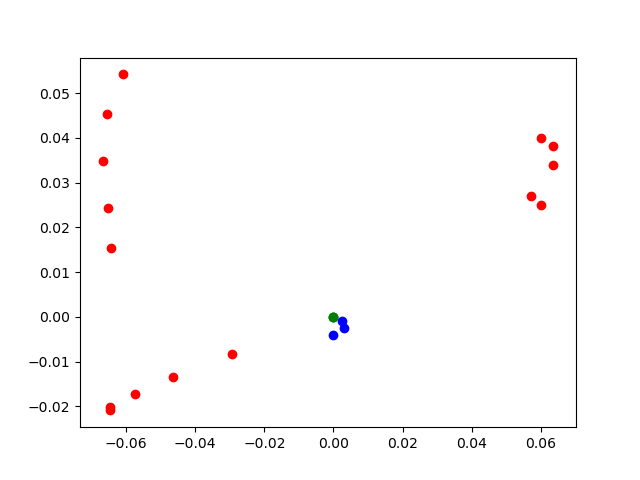
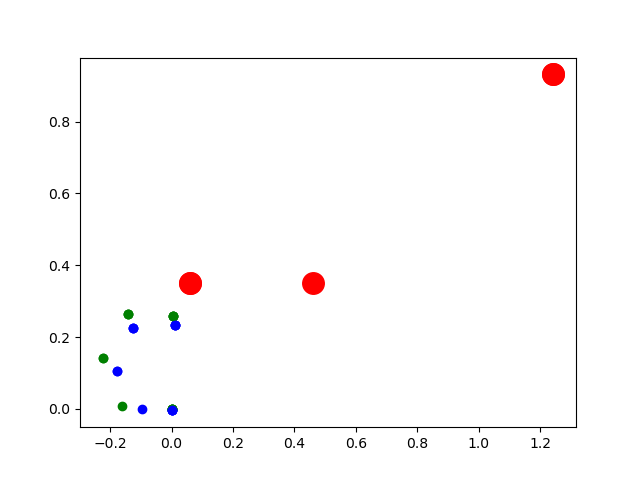
small fixes

diff --git a/extended_kalman_filter.py b/extended_kalman_filter.py
@@ -121,7 +121,7 @@ class ExtendedKalmanFilter:
             dots = []
 
             while i < 5:
-                dots.append([depths[int(i * len(depths) / 5)] / 10, start_angle + delta_angle * (i + 1)])    
+                dots.append([depths[int(i * len(depths) / 5)] * 5, start_angle + delta_angle * (i + 1)])    
                 i += 1
 
             return dots
@@ -135,27 +135,28 @@ class ExtendedKalmanFilter:
 
 
     def ekf_update(self, z):
-        for iz in range(len(z[:, 0])): 
-            minid = self.search_correspond_LM_ID(z[iz, 0:2]) 
+        if len(z) > 0:
+            for iz in range(len(z[:, 0])): 
+                minid = self.search_correspond_LM_ID(z[iz, 0:2]) 
 
-            nLM = int((len(self.xEst) - STATE_SIZE) / 2)
-            
-            if minid == nLM: 
-                xAug = np.vstack((self.xEst, self.calc_LM_Pos(z[iz, :])))
+                nLM = int((len(self.xEst) - STATE_SIZE) / 2)
+                
+                if minid == nLM: 
+                    xAug = np.vstack((self.xEst, self.calc_LM_Pos(z[iz, :])))
 
-                PAug = np.vstack((np.hstack((self.PEst, np.zeros((len(self.xEst), LM_SIZE)))),
-                                np.hstack((np.zeros((LM_SIZE, len(self.xEst))), self.initP))))
-                self.xEst = xAug
-                self.PEst = PAug
- 
-      
-            lm = self.get_LM_Pos_from_state(minid)
+                    PAug = np.vstack((np.hstack((self.PEst, np.zeros((len(self.xEst), LM_SIZE)))),
+                                    np.hstack((np.zeros((LM_SIZE, len(self.xEst))), self.initP))))
+                    self.xEst = xAug
+                    self.PEst = PAug
     
-            y, S, H = self.calc_innovation(lm, self.xEst, self.PEst, z[iz, 0:2], minid)
+        
+                lm = self.get_LM_Pos_from_state(minid)
+        
+                y, S, H = self.calc_innovation(lm, self.xEst, self.PEst, z[iz, 0:2], minid)
 
-            K = (self.PEst @ H.T) @ np.linalg.inv(S) # Calculate Kalman Gain
-            self.xEst = self.xEst + (K @ y)
-            self.PEst = (np.eye(len(self.xEst)) - (K @ H)) @ self.PEst
+                K = (self.PEst @ H.T) @ np.linalg.inv(S) # Calculate Kalman Gain
+                self.xEst = self.xEst + (K @ y)
+                self.PEst = (np.eye(len(self.xEst)) - (K @ H)) @ self.PEst
         
         self.xEst[2] = pi_2_pi(self.xEst[2])
     
@@ -176,14 +177,13 @@ class ExtendedKalmanFilter:
     
     def perform_filter_step(self, landmarks):
         processed_landmarks = self._get_landmarks(landmarks)
-        if len(processed_landmarks) > 0:
-            self.ekf_predict()
-            self.ekf_update(processed_landmarks)
-            estimated_position = [self.xEst[0][0], self.xEst[1][0]]
-            self.robot.update_supposed_position(estimated_position)
-            true_position = self.robot.get_robot_position()
-            self.supposed.append(estimated_position)
-            self.real.append(true_position)
+        self.ekf_predict()
+        self.ekf_update(processed_landmarks)
+        estimated_position = [self.xEst[0][0], self.xEst[1][0]]
+        self.robot.update_supposed_position(estimated_position)
+        true_position = self.robot.get_robot_position()
+        self.supposed.append(estimated_position)
+        self.real.append(true_position)
 
 
     def plot_positions(self):
@@ -191,10 +191,17 @@ class ExtendedKalmanFilter:
         self.ax.scatter([r[0] for r in self.real], [r[1] for r in self.real], c = 'b')
         
         i = 3
+        avg_x = 0
+        avg_y = 0
         while i + 1 < len(self.xEst):
-            print([self.xEst[i]], [self.xEst[i + 1]])
-            self.ax.scatter([self.xEst[i]], [self.xEst[i + 1]], c = 'r')
+            avg_x += self.xEst[i]
+            avg_y += self.xEst[i + 1]
             i += 2
+
+        avg_x /= (len(self.xEst) - 3)
+        avg_y /= (len(self.xEst) - 3)
+
+        self.ax.scatter([avg_x], [avg_y], c = 'r', s = [60*4**n for n in range(1, 2)])
 
         self.fig.savefig(self.path_to_map)
         plt.close(self.fig)

diff --git a/main.py b/main.py
@@ -69,21 +69,23 @@ with b0RemoteApi.RemoteApiClient('b0RemoteApi_pythonClient', 'b0RemoteApi') as c
 
     
     def test_kalman_filter():
+        def perform_kalman():
+            extended_kalman_filter.perform_filter_step(landmarks_getter.get_landmarks(image_processor.process_image(robot.stop_and_get_image())))
+            extended_kalman_filter.plot_positions()
         robot.subscribe_to_robot_position_change()
         robot.subscribe_to_orientation_change()
-        extended_kalman_filter.perform_filter_step(landmarks_getter.get_landmarks(image_processor.process_image(robot.stop_and_get_image())))
-        robot.move(pi / 3, 0)
-        extended_kalman_filter.perform_filter_step(landmarks_getter.get_landmarks(image_processor.process_image(robot.stop_and_get_image())))
-        robot.move(pi / 3, 0)
-        extended_kalman_filter.perform_filter_step(landmarks_getter.get_landmarks(image_processor.process_image(robot.stop_and_get_image())))
-        robot.move(pi / 3, 0)
-        extended_kalman_filter.perform_filter_step(landmarks_getter.get_landmarks(image_processor.process_image(robot.stop_and_get_image())))
-        robot.move(pi / 3, 0)
-        extended_kalman_filter.perform_filter_step(landmarks_getter.get_landmarks(image_processor.process_image(robot.stop_and_get_image())))
-        robot.move(pi / 3, 0)
-        extended_kalman_filter.perform_filter_step(landmarks_getter.get_landmarks(image_processor.process_image(robot.stop_and_get_image())))
+        
+        perform_kalman()
+        robot.move(pi / 3, 30)
+        robot.move(pi / 3, 30)
+        perform_kalman()
+        robot.move(pi / 3, 30)
+        perform_kalman()
+        robot.move(pi / 3, 30)
+        perform_kalman()
+        robot.move(pi / 3, 30)
+        perform_kalman()
         robot.save_trajectory()
-        extended_kalman_filter.plot_positions()
 
 
     perform_step(test_kalman_filter, client)

diff --git a/k_junior_robot.py b/k_junior_robot.py
@@ -13,8 +13,7 @@ from utils import get_angle_between_vectors, get_vector_in_robot_coords, clear_f
 
 class KJuniorRobot:
 
-    def __init__(self, client: RemoteApiClient, robot_name, attached_vision_sensor_name,
-         attached_proximity_sensor_name):
+    def __init__(self, client: RemoteApiClient, robot_name, attached_vision_sensor_name, attached_proximity_sensor_name):
         """
         Init: already connected client, robot name from Coppelia, vision sensor name
         """
@@ -31,7 +30,7 @@ class KJuniorRobot:
         self.left_motor_trajectory = []
         self.angular_velocity = 1.4
         self.linear_velocity = 10
-        self.rotation_per_sec = 0.12908982839851437
+        self.rotation_per_sec = 0.1201999286907338
         self.experiments_images_folder = './images/angular_speed_experiments/'
         self.robot_trajectory_images_folder = './images/robot_trajectory/'
 
